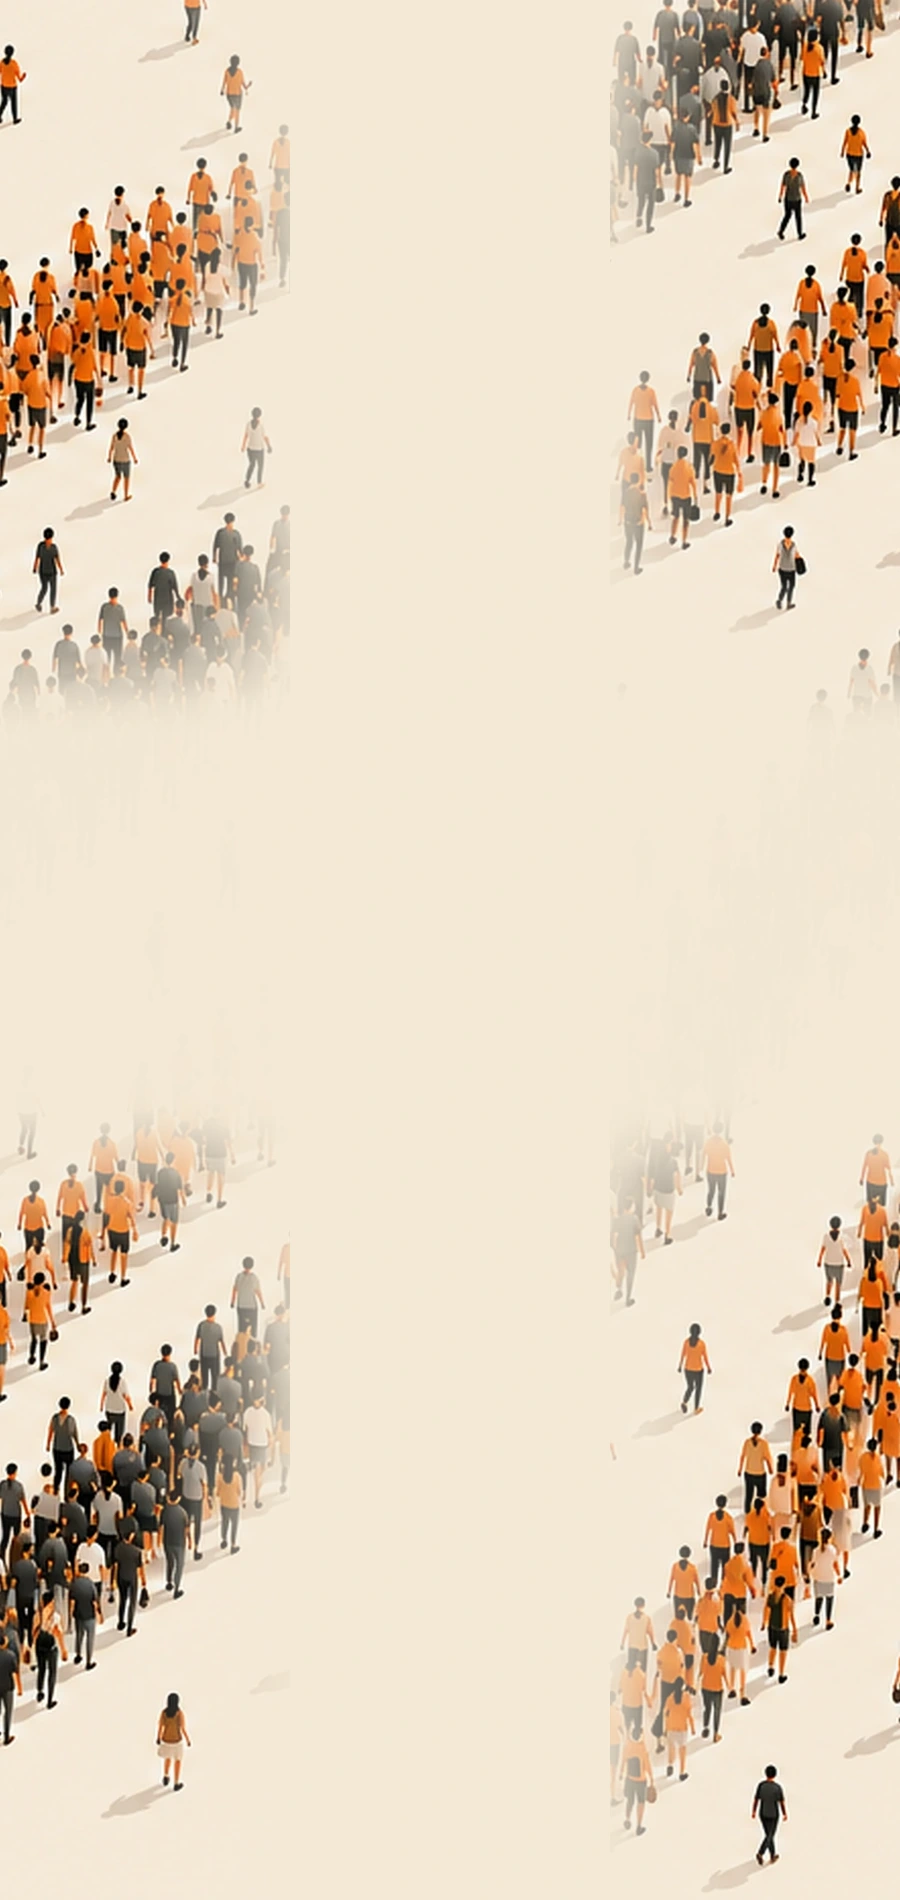
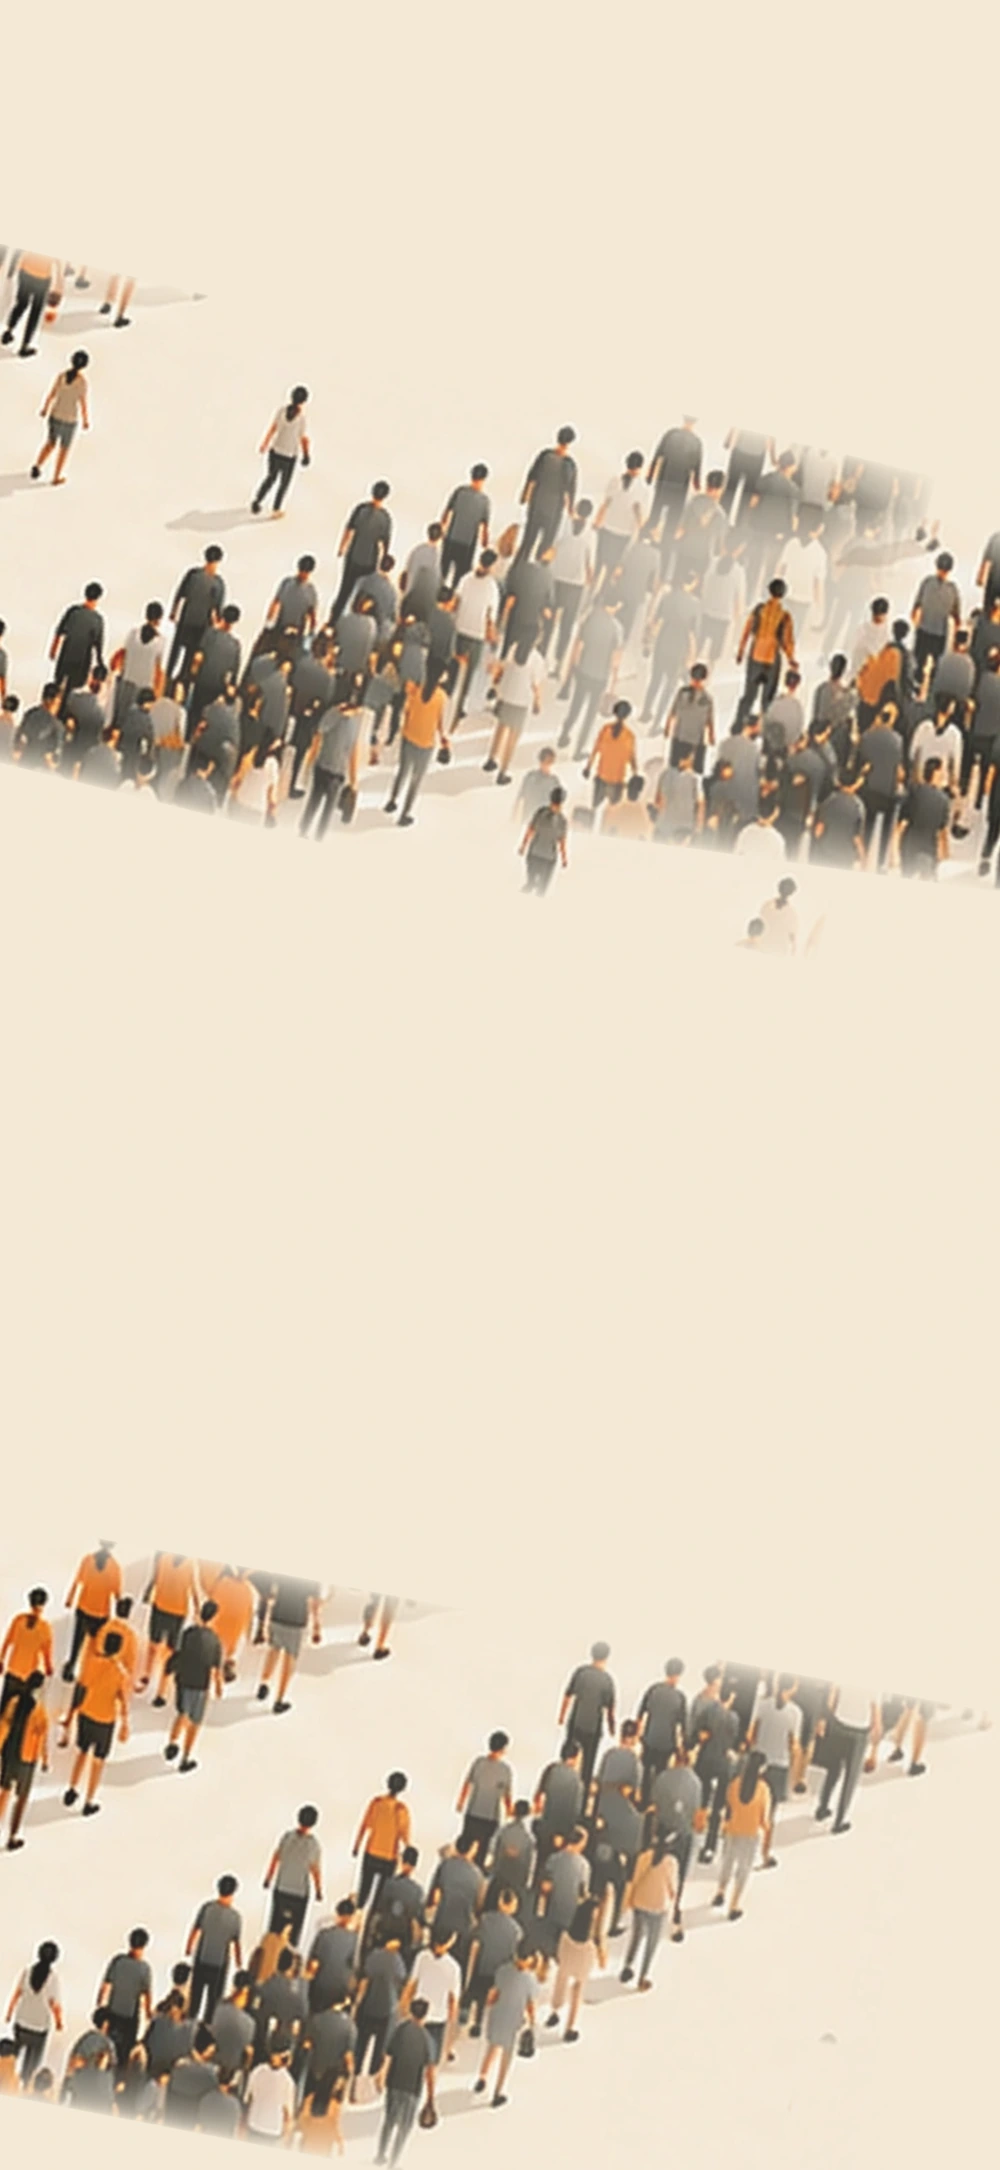
w

diff --git a/app/globals.css b/app/globals.css
@@ -556,35 +556,44 @@ body {
 /* Hero height IS the artwork height at full width — 3072x2048 is 66.67%
    of its width — so the whole composition is visible with nothing cropped.
    `min-height` keeps it at least a screen tall on very wide windows. */
+/* ARCHITECTURE
+   100svh hero -> artwork scaled to FIT inside it -> text positioned
+   against the viewport, fixed. Nothing sticky, nothing recentring, and
+   the hero never exceeds one screen. */
 .hero-shell {
-  height: 66.67vw;
+  height: 100svh;
   min-height: 100svh;
 }
 
-/* The overlay is exactly one viewport tall and sticks to the top of the
-   hero, so the copy stays centred on the visible screen while the
-   artwork continues past it. */
+/* `contain` scales the whole composition down until it fits the hero box,
+   preserving aspect ratio. Any leftover space is the page cream, so the
+   join is invisible. */
+.hero-crowd-art {
+  background-size: contain !important;
+  background-position: center !important;
+}
+
+/* Absolutely positioned against the hero box, nudged ~2.5vh above centre
+   so it reads as optically centred with the nav in view. It does not move
+   on scroll. */
 .hero-content {
-  height: 100svh;
-  padding-top: 5rem;
+  position: absolute;
+  inset: 0;
+  height: auto;
+  padding-top: 0;
+  top: calc(50% - 2.5vh);
+  bottom: auto;
+  transform: translateY(-50%);
 }
 
 @media (max-width: 767px) {
-  /* the portrait asset is 900x1900, i.e. 211.11% of its width */
-  .hero-shell {
-    height: 211.11vw;
-    min-height: 88svh;
-  }
-  .hero-content {
-    height: 88svh;
-    padding-top: 76px;
-  }
+  .hero-shell { height: 100svh; min-height: 100svh; }
+  .hero-content { top: calc(50% - 2vh); }
 
   .hero-crowd-art.is-mobile {
-    /* one continuous portrait image, shown whole */
     background-image: url("/images/crowd-mobile.webp");
-    background-size: 100% auto;
-    background-position: 50% 0;
+    background-size: contain !important;
+    background-position: center !important;
     -webkit-mask-image: none;
     mask-image: none;
   }

diff --git a/components/Hero.tsx b/components/Hero.tsx
@@ -29,7 +29,7 @@ export default function Hero() {
           whatever the viewer can currently see while the artwork carries
           on above and below it. Its position is never derived from the
           image's dimensions. */}
-      <div className="hero-content sticky top-0 z-10 flex w-full flex-col items-center justify-center px-5 sm:px-6 md:px-10">
+      <div className="hero-content z-10 flex w-full flex-col items-center justify-center px-5 sm:px-6 md:px-10">
         <div className="hero-tagline-wrap mx-auto w-full max-w-4xl flex flex-col items-center">
           <WordsFindEachOther closeness={closeness} />
           <div className="mt-9 md:mt-8 w-full max-w-2xl">

diff --git a/BACKGROUND-SYSTEM.md b/BACKGROUND-SYSTEM.md
@@ -1821,3 +1821,43 @@ The portrait asset is rebuilt from the artwork's **densest** vertical slices
 the bands read as orange-and-black stripes instead of scattered figures. Ink is
 26% at the top and 22% at the bottom, with the bands retreating to **6%** across
 the copy rows so no one crosses the type.
+
+---
+
+# 100svh hero, contained artwork, locked type
+
+## Architecture
+
+`100svh hero -> artwork scaled to fit -> text positioned against the viewport`.
+No sticky, no recentring, no scrolling to finish the hero.
+
+- **Hero**: `height: 100svh`. Measured at 1440×900, 1920×1080, 390×844 and
+  375×812 — hero height equals viewport height exactly at every one.
+- **Artwork**: `background-size: contain`, centred. The whole composition scales
+  down until it fits; aspect ratio preserved, nothing cropped, and the leftover
+  space is page cream so the join is invisible.
+- **Text**: absolutely positioned at `top: calc(50% - 2.5vh)` with a
+  `translateY(-50%)` — about 2.5vh above centre, as asked. Verified locked:
+  its document position is 345px before scrolling and 345px after, **drift 0**.
+
+## Safe zone, done in the artwork
+
+No overlay, gradient, blur or mask. The 16 stray figures standing inside the
+headline zone were painted out of the source image itself, each with its cast
+shadow, using the surrounding cream's own tone and grain. Ink inside the safe
+rectangle drops to 5.3%, and what remains is at its outer margins, not beside
+the letters.
+
+## Mobile: its own composition
+
+A separate portrait asset at phone aspect (1000×2170) so `contain` fills the
+screen without cropping. **Three** formations only — a long sweep upper-left, a
+short accent upper-right, a long sweep lower-left — curved, tapered, and
+deliberately asymmetric, so there is no corridor or parallel-wall effect. 22%
+ink overall against desktop's density, with **0.26%** through the copy rows.
+
+Three things went wrong on the way and are worth recording: rotating an RGB crop
+filled the corners with black (alpha is now baked in before rotation); tapering
+to zero made the stripes vanish (they now taper to a floor of 0.5); and source
+crops at native scale produced ~20px specks (they are upscaled ~1.8× so figures
+read at ~40px after `contain`).
